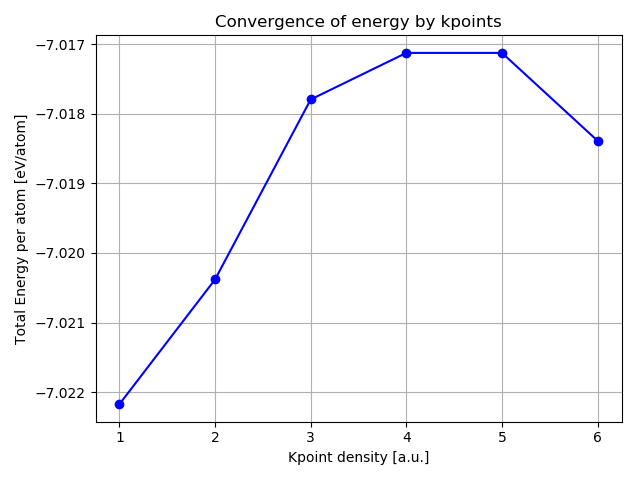
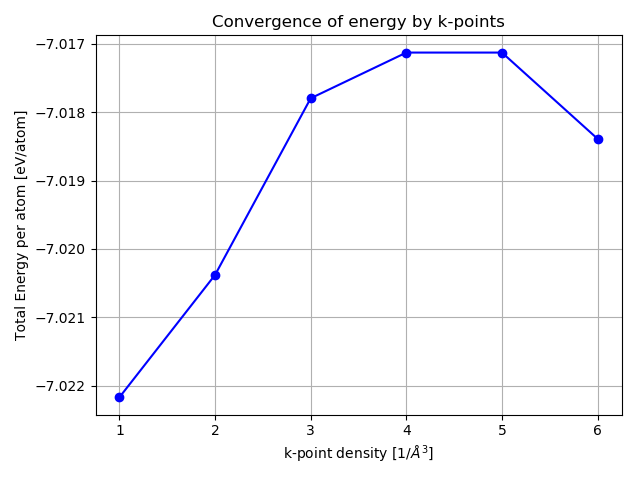
tweaked figures for k-point convergence

diff --git a/python/plot_kpoints.py b/python/plot_kpoints.py
@@ -21,8 +21,8 @@ energy = energy/26 #TOTEN per atom
 
 plt.plot(kpoint,energy,"b-")
 plt.plot(kpoint,energy,"bo")
-plt.title("Convergence of energy by kpoints")
-plt.xlabel("Kpoint density [a.u.]")
+plt.title("Convergence of energy by k-points")
+plt.xlabel("k-point density [$1/Å^3$]")
 plt.ylabel("Total Energy per atom [eV/atom]")
 plt.grid()
 plt.tight_layout()
@@ -33,8 +33,8 @@ energy_difference = abs(np.diff(energy))
 
 plt.plot(kpoint[:-1],energy_difference,"b-")
 plt.plot(kpoint[:-1],energy_difference,"bo")
-plt.title("Convergence of energy by kpoints - difference")
-plt.xlabel("Kpoint density [a.u.]")
+plt.title("Convergence of energy by k-points - difference")
+plt.xlabel("k-point density [$1/Å^3$]")
 plt.ylabel("Absolute Total Energy Difference per atom [eV/atom]")
 plt.grid()
 plt.tight_layout()
